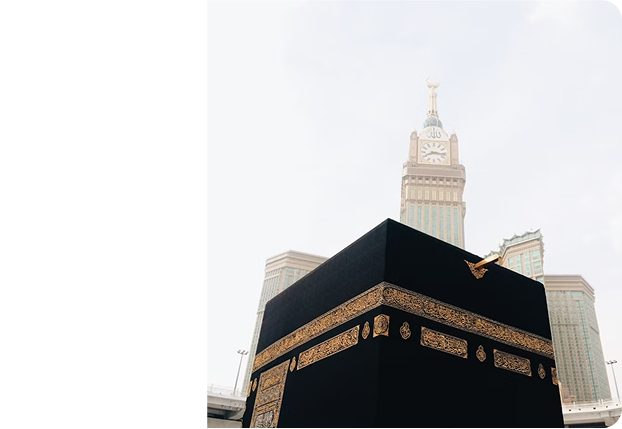
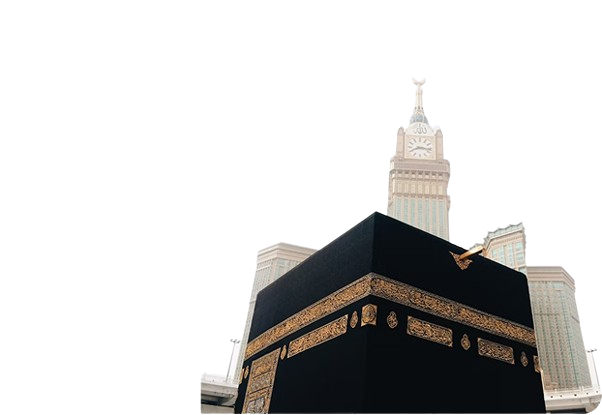
fix: improve layout and centering in Packages component

diff --git a/app/components/Packages.tsx b/app/components/Packages.tsx
@@ -14,7 +14,7 @@ export const Packages = () => {
 
       {/* Container for the package cards */}
       <div className="container mx-auto ">
-        <div className="flex gap-4 flex-col md:flex-row">
+        <div className="flex gap-4 flex-col md:flex-row md:justify-center">
           <div className="flex justify-center ">
             <div className="relative bg-[#EDF0F7] rounded-2xl w-full md:w-[622px] h-[427px] overflow-hidden transform transition-transform duration-300 hover:-translate-y-2">
               {/* Text Overlay */}
@@ -38,23 +38,23 @@ export const Packages = () => {
                   alt="Kaaba"
                   layout="fill"
                   objectFit="cover"
-                  className="opacity-50 transform scale-110"
+                  className="transform scale-110 "
                 />
               </div>
             </div>
           </div>
 
-          <div className="flex justify-center ">
-            <div className="relative bg-[#EDF0F7] rounded-2xl w-[438px] h-[427px] overflow-hidden transform transition-transform duration-300 hover:-translate-y-2">
+          <div className="flex justify-center">
+            <div className="relative bg-[#EDF0F7] rounded-2xl w-full md:w-[438px] h-[427px] overflow-hidden transform transition-transform duration-300 hover:-translate-y-2">
               {/* Text Overlay */}
-              <div className="absolute bottom-10  left-23 z-10 text-left">
+              <div className="absolute bottom-8 left-1/2 transform -translate-x-1/2 z-10 text-center w-3xs">
                 <h2 className="text-2xl font-bold text-black mb-4">
                   Secure Travel Visas <br />
                 </h2>
               </div>
 
               {/* Image Container */}
-              <div className="absolute inset-0 top-10 left-10">
+              <div className="absolute inset-0 bottom-10 flex items-center justify-center">
                 <Image
                   src="/images/package-picture.png"
                   alt="Package"
